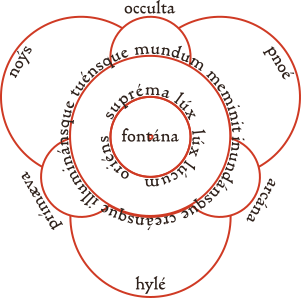
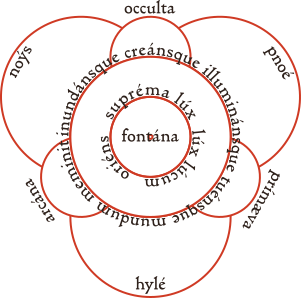
revision of image and text

Changed region(s): [[0.1794, 0.151, 0.8073, 0.7852], [0.0598, 0.5738, 0.2093, 0.7852], [0.8073, 0.5738, 0.9269, 0.7852]]

diff --git a/ecumene/beliefs.md b/ecumene/beliefs.md
@@ -4,19 +4,26 @@ title: Beliefs and Practices
 permalink: /ecumene/beliefs/
 ---
 
-## 'Ima
-
-
+## Schools of the High Imperium
 
 ### Unity of Being
 
-### Three Essential Qualities
+### Three Essences of Reality
 
-It is concluded that, emanating from the One are three essences, through which all entities derive their subsidiary existence and through which they receive being from the One, relate to one another through the One, and return to the One. These essences are matter (HI. *hylé*), breath (HI. *pnoé*), and awareness (HI. *noýs*).
+Emanating from the One are three essences, which together, in varying quantities and complexity of configuration, form the basis for subsidiary reality and all entities of reality. These are continually received by entities from the One, allow entities to relate to one enother through the One, and return from entities to the One.
+
+These essences are matter (HI. *hylé*), breath (HI. *pnoé*), and awareness (HI. *noýs*).
 
 <figure>
 	<img src="/assets/img/unity-of-existence.png">
 	<figcaption>The highest levels of existence and their interactions.</figcaption>
 </figure>
 
-Manipulation of the interactions between the three essences beyond the mundane level allows entities to engage in magic. Interactions between awareness and breath result in *occult magic*, between matter and awareness in *arcane magic*, and between breath and matter in *primal magic*. 
+Magic emerges through the willful manipulation of the interactions between the three essences beyond the mundane, granting entities powers to impose their will upon the fabric of reality.
+
+The categorization of these manipulations:
+- breath and matter: *primal magic*
+- matter and awareness: *arcane magic*
+- awareness and breath: *occult magic*
+
+## 'Ima tal-Iva
